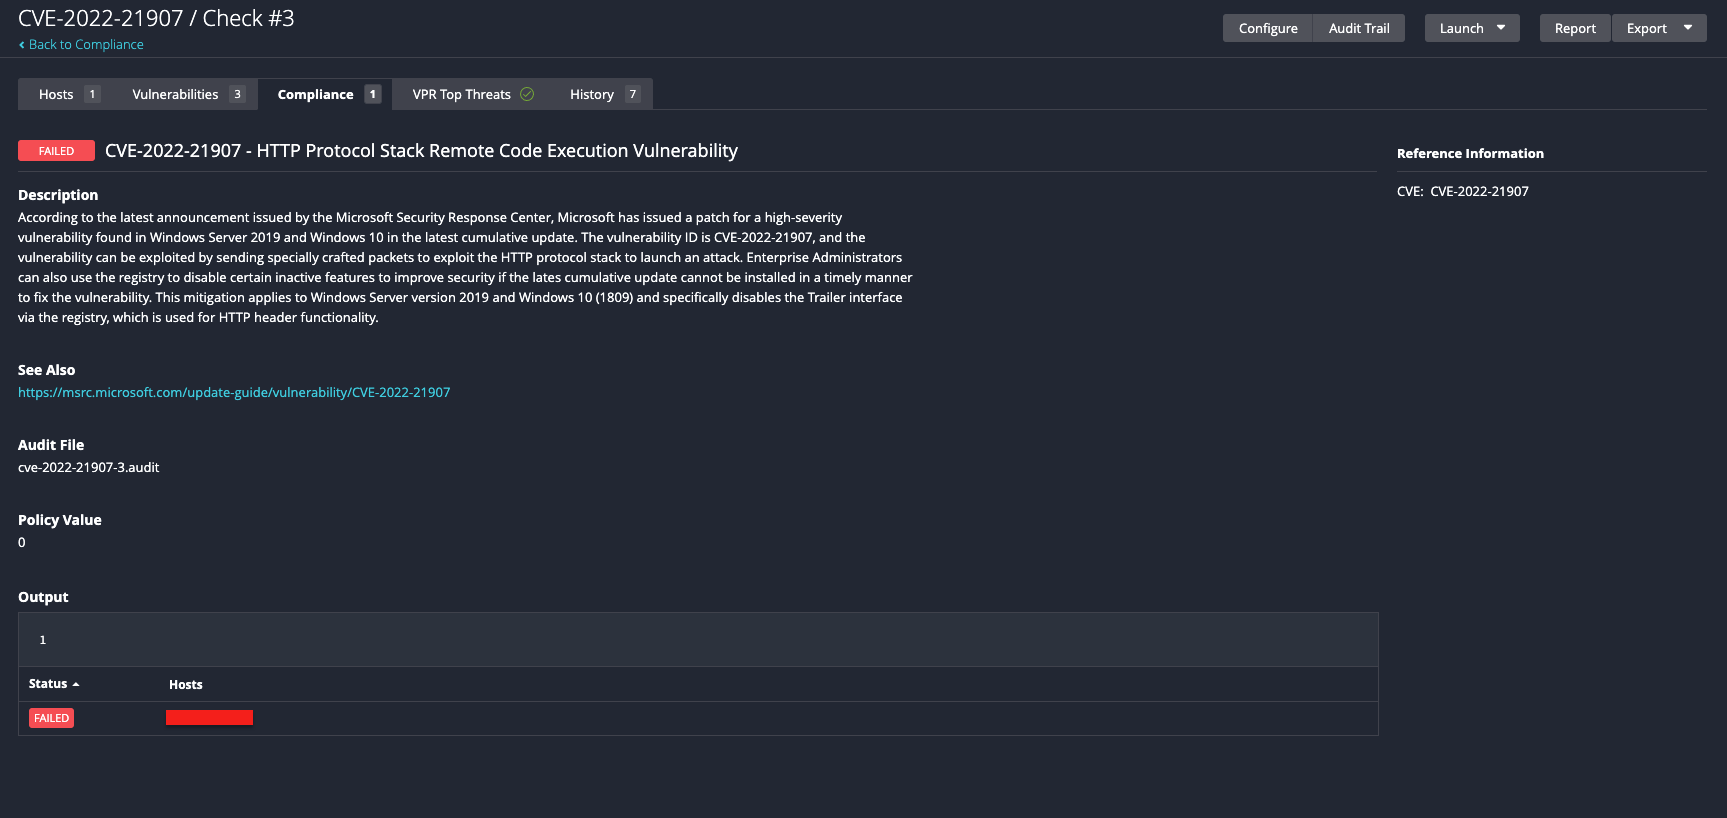
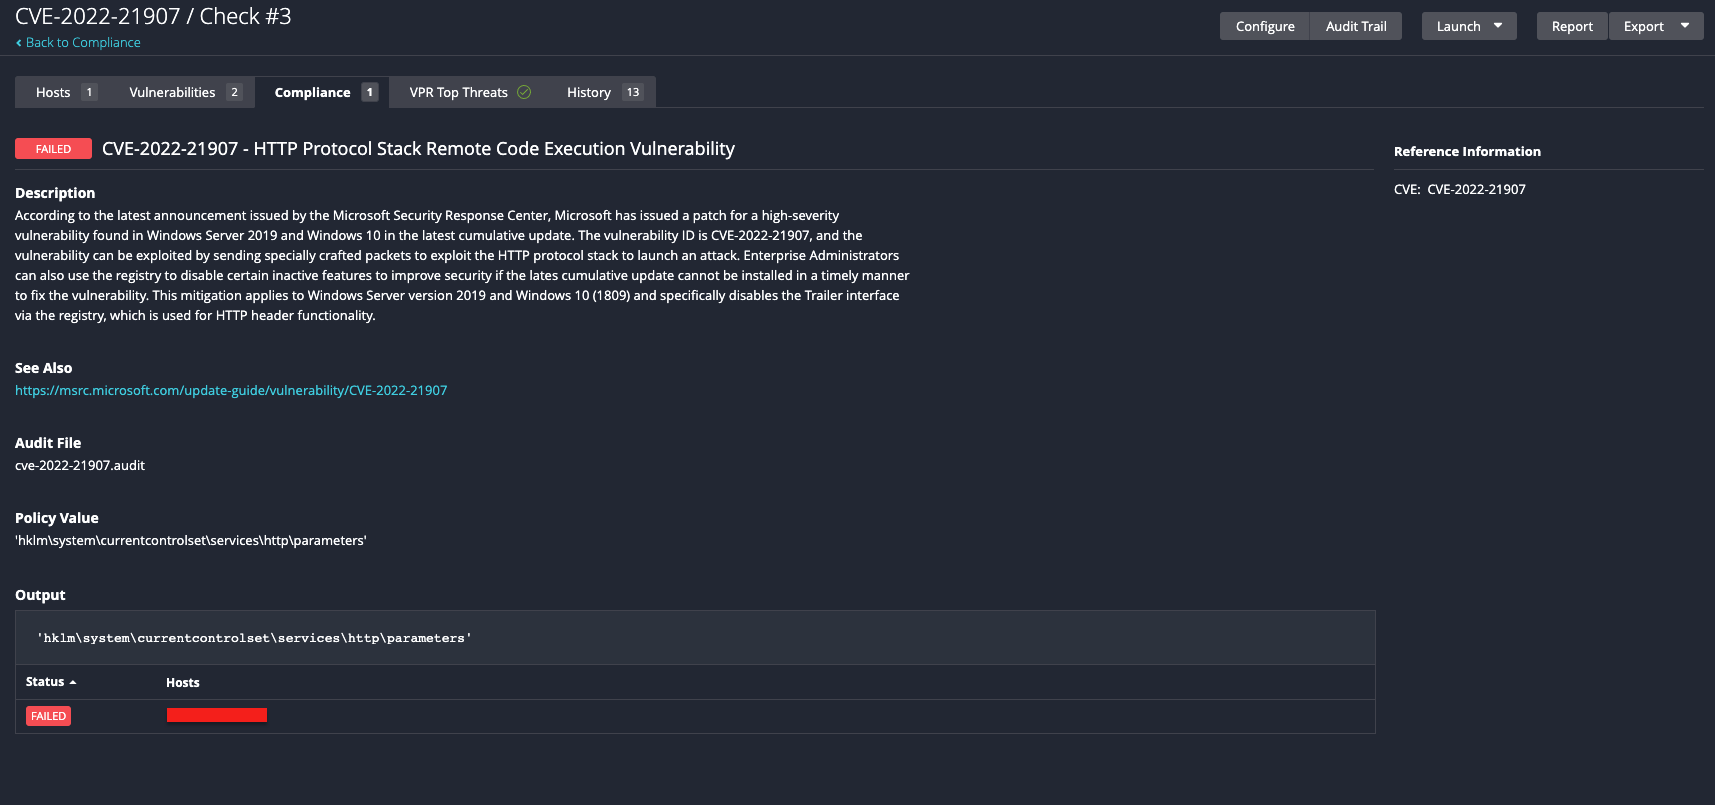
Updated Readme and screenshots

diff --git a/cve-2022-21907/README.md b/cve-2022-21907/README.md
@@ -7,23 +7,22 @@ Tenable audits can be used to check for the existence of this flaw.
 
 Let's break down the audit and its output.
 
-1. The Windows compliance plugin executes a series of REGISTRY_SETTING checks which evaluate for the existence of the specified platforms and reg_items and reports a PASSED result if the mitigations exists or FAILED result if the mitigations do not exist.
+1. The Windows compliance plugin executes a REG_CHECK which evaluates for the existence of the specified platforms and searches for the vulnerable registry keys and reports a PASSED result if the mitigations exists or FAILED result if the mitigations do not exist.
 
-The following registry paths are checked for reg_item 'EnableTrailerSupport' and the value_data should be set to '0' or a null value.
+The following registry paths are checked "HKLM\System\Currentcontrolset\Services\Http\Parameters" and key item "EnableTrailerSupport".
 
 ```
-    <custom_item>
-      type        : REGISTRY_SETTING
-      description : "CVE-2022-21907 - HTTP Protocol Stack Remote Code Execution Vulnerability"
-      info        : "According to the latest announcement issued by the Microsoft Security Response Center, Microsoft has issued a patch for a high-severity vulnerability found in Windows Server 2019 and Windows 10 in the latest cumulative update. The vulnerability ID is CVE-2022-21907, and the vulnerability can be exploited by sending specially crafted packets to exploit the HTTP protocol stack to launch an attack. Enterprise Administrators can also use the registry to disable certain inactive features to improve security if the lates cumulative update cannot be installed in a timely manner to fix the vulnerability. This mitigation applies to Windows Server version 2019 and Windows 10 (1809) and specifically disables the Trailer interface via the registry, which is used for HTTP header functionality."
-      reference   : "CVE|CVE-2022-21907"
-      see_also    : "https://msrc.microsoft.com/update-guide/vulnerability/CVE-2022-21907"
-      value_type  : POLICY_DWORD
-      value_data  : 0
-      reg_key     : "HKLM\System\Currentcontrolset\Services\Http\Parameters"
-      reg_item    : "EnableTrailerSupport"
-      reg_option  : CAN_BE_NULL
-    </custom_item>
+        <custom_item>
+          type        : REG_CHECK
+          description : "CVE-2022-21907 - HTTP Protocol Stack Remote Code Execution Vulnerability"
+          info        : "According to the latest announcement issued by the Microsoft Security Response Center, Microsoft has issued a patch for a high-severity vulnerability found in Windows Server 2019 and Windows 10 in the latest cumulative update. The vulnerability ID is CVE-2022-21907, and the vulnerability can be exploited by sending specially crafted packets to exploit the HTTP protocol stack to launch an attack. Enterprise Administrators can also use the registry to disable certain inactive features to improve security if the lates cumulative update cannot be installed in a timely manner to fix the vulnerability. This mitigation applies to Windows Server version 2019 and Windows 10 (1809) and specifically disables the Trailer interface via the registry, which is used for HTTP header functionality."
+          reference   : "CVE|CVE-2022-21907"
+          see_also    : "https://msrc.microsoft.com/update-guide/vulnerability/CVE-2022-21907"
+          value_type  : POLICY_TEXT
+          value_data  : "HKLM\System\Currentcontrolset\Services\Http\Parameters"
+          reg_option  : MUST_NOT_EXIST
+          key_item    : "EnableTrailerSupport"
+        </custom_item>
 ```
 
 The audit will produce the following results when scanned against a passing target:
